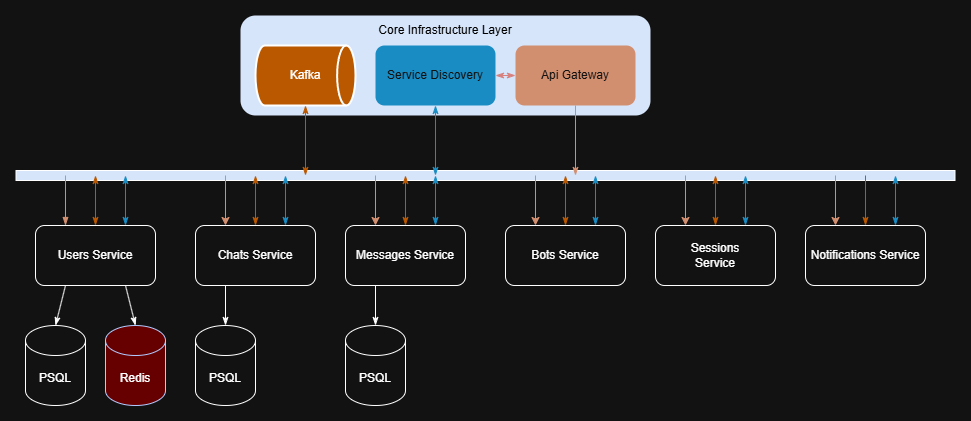
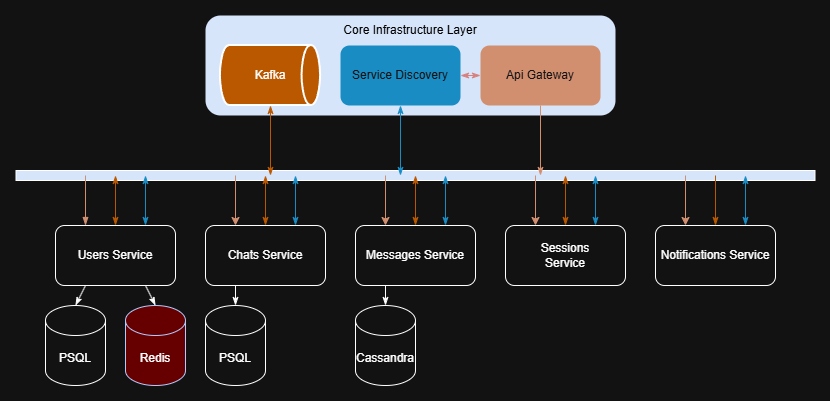
Updated cryptographic foundation, architecture and documentation
- Refined README to improve clarity on cryptographic primitives and their usage
- Introduced sealed sender architecture under symmetric encryption practices
- Updated architecture diagram

diff --git a/README.md b/README.md
@@ -12,12 +12,9 @@ The backend is built as a modular system (or microservices architecture), separa
 
 ### Modules & Services
 
-The backend is built as a distributed microservices architecture, communicating synchronously via API Gateway/Service Discovery and asynchronously via Kafka events.
-
 * **[Users Service](./users/README.md)** — Core service handling invite-only registration, passwordless Challenge-Response authentication, device fleet management, and Cross-Signing attestation.
 * **Chats Service** — Manages chat rooms, group metadata, and participant lists.
 * **Messages Service** — Handles the routing of E2EE payloads, offline message queues, and delivery receipts.
-* **Bots Service** — Integrates automated bots into the ecosystem, interacting directly with the Messages Service.
 * **Sessions Service** — Manages persistent WebSocket connections for real-time, instant message delivery to online devices.
 * **Notifications Service** — Responsible for dispatching push notifications (via Firebase Cloud Messaging) to wake up offline devices when new E2EE payloads arrive.
 
@@ -28,26 +25,26 @@ The backend is built as a distributed microservices architecture, communicating 
 ParanoiaX relies on modern, fast, and secure cryptographic primitives:
 
 * **Ed25519 (EdDSA):** Used for all digital signatures (Cross-Signing devices, Challenge-Response API authentication). It is exceptionally fast and immune to side-channel attacks.
-* **X25519 (ECDH):** Used for Elliptic-Curve Diffie-Hellman key agreement. This allows two devices to negotiate a shared secret over an insecure channel to encrypt messages.
-* **AES-256-GCM:** Used for symmetric encryption of bulk data (e.g., encrypting the local database Blob during state migration and encrypting actual message payloads).
-* **UUIDv4:** Used for generating collision-resistant, non-sequential identifiers for users and devices.
+* **X25519 (ECDH):** Used for Elliptic-Curve Diffie-Hellman key agreement. This allows devices to securely negotiate and exchange symmetric keys over an insecure channel via ECIES envelopes.
+* **AES-256-GCM:** Used for symmetric encryption of bulk data.
+* **HKDF & HMAC-SHA256:** Used for deterministic, stateless token generation (e.g., for anonymous message deletion) and safe key derivation, ensuring strict key domain separation.
 
 ---
 
 ## Cryptographic Key Hierarchy
 
-To guarantee Perfect Forward Secrecy and ensure that a single compromised device does not expose the user's entire account, the system enforces a strict hierarchy of keys across three levels:
+To provide robust Forward and Post-Compromise Security, and to ensure that a single compromised device does not expose the user's entire account, the system enforces a strict hierarchy of keys across three levels:
 
 ### 1. User Level (Root of Trust)
-This level identifies the *person*, not the hardware. 
-* **Master Identity Key (Ed25519):** Generated once on the very first device during registration. 
+This level identifies the *person*, not the hardware.
+* **Master Identity Key (Ed25519):** Generated once on the very first (primary) device during registration.
     * *Public Key:* Acts as the user's global "passport" for other contacts.
     * *Private Key:* Stored securely on the primary device. Used **only** to sign and authorize new secondary devices (Cross-Signing).
 
 ### 2. Device Level (Authentication & Routing)
 Every piece of hardware (phone, PC, web browser) generates its own independent keys that never leave the device's secure hardware enclave (Keystore/Keychain).
-* **Device Identity Key (Ed25519):** Used to sign HTTP requests (Challenge-Response) so the server knows which specific device is making the API call.
-* **Device Encryption Key (X25519):** Used as the public recipient key for E2EE messages. If Alice has two devices, Bob will encrypt his message twice—once for Alice's phone, and once for Alice's PC.
+* **Device Identity Key (Ed25519):** Used to sign HTTP requests (Challenge-Response) for API authentication, and to digitally sign encapsulated E2EE message payloads to prove author authenticity to other clients (Cryptographic Framing).
+* **Device Encryption Key (X25519):** Used as the public recipient key for ECIES-based key distribution. Allows devices to securely receive shared chat keys through the server's outbound key mailbox.
 
-### 3. Chat Level (Payload Encryption)
-* **Symmetric Session Keys (AES-256):** Derived from the X25519 key agreement between the sender's device and the recipient's device. These keys are used to quickly encrypt the actual text, audio, or media payloads of the chat. They are frequently rotated to maintain Forward Secrecy.
+### 3. Chat Level (Payload Encryption & Sealed Sender)
+* **Symmetric Chat Keys (AES-256-GCM):** A shared symmetric key generated by a chat initiator and securely distributed to all participant devices via ECIES envelopes. This key encrypts the entire message payload—including sender metadata, achieving a "Sealed Sender" architecture where the server cannot see who authored a specific message. To maintain strict security boundaries and limit exposure, these keys are aggressively rotated (e.g., every 100 messages, every 7 days, or immediately upon any participant changes).

diff --git a/users/README.md b/users/README.md
@@ -23,10 +23,11 @@ The primary client application executes a fully localized cryptographic initiali
 
 **Phase 2: Local Cryptographic Initialization**
 
-1. **Key Generation:** The new device locally generates **two independent ECC key pairs**:
-   - `Identity_Key` (Ed25519) used exclusively for digital signatures and authentication.
-   - `Encryption_Key` (X25519) used exclusively for End-to-End Encryption (E2EE) of chat messages.
-2. **Device Identification:** A unique `device_id` (UUIDv4) is generated to identify this specific hardware instance.
+1. **Key Generation:** The new device locally generates **ECC key pairs**:
+   - `Master_Identity_Key` (Ed25519): Used exclusively as the root of trust to cross-sign future devices.
+   - `Device_Identity_Key` (Ed25519): Used for API authentication (Challenge-Response) and digital signatures.
+   - `Device_Encryption_Key` (X25519): Used for ECIES-based key distribution of E2EE chat keys. *(Secondary devices generate only the latter two).*
+2. **Device Identification:** A unique, unpredictable `device_id` is generated via CSPRNG (UUIDv4 format) to securely identify this specific hardware instance and prevent ID enumeration.
 3. **Hardware Isolation:** The private keys are immediately stored in the OS hardware-backed secure enclave (Keystore on Android / Keychain on iOS/macOS) and **never leave the device** under any circumstances.
 
 **Phase 3: Profile Registration**
@@ -52,21 +53,21 @@ Since message history is stored on the server and private ECC keys cannot be cop
 More importantly, to protect against **Ghost Device Attacks** (where a compromised server injects a fake device to intercept messages), ParanoiaX implements **Cross-Signing**. 
 The server is never trusted to verify device ownership. Instead, the primary device cryptographically signs the new device's public keys.
 
-### 3.1. Cryptographic Key Hierarchy
+### 2.1. Cryptographic Key Hierarchy
 
 To maintain Perfect Forward Secrecy and ensure a compromised device does not expose the entire account's history, ParanoiaX strictly separates *trust* from *encryption*:
 
 * **Account Level (Master Identity):** During initial registration, the first device generates a single Master Identity Key Pair (Ed25519). The public key acts as the user's global cryptographic "passport." The Master Private Key is securely stored locally on the primary device and is used *exclusively* to sign and authorize secondary devices.
 * **Device Level (Independent Keys):** Every device (including the primary one) generates its own independent Identity Key Pair (for API authentication) and Encryption Key Pair (X25519, for E2EE messages). When a contact sends a message, their client individually encrypts it for each of the recipient's verified devices.
 
-### 3.2. The Migration Protocol
+### 2.2. The Migration Protocol
 
 1. **Key Generation:** The new device generates its own independent Ed25519 and X25519 key pairs.
 2. **Cross-Signing (Offline):** The primary device scans the new device's keys and signs them using its Master Private Key, generating a `device_signature`.
 3. **State Encryption:** The primary device encrypts the local database of symmetric AES chat keys using a randomly generated one-time `transfer_key`.
 4. **Server Upload:** The encrypted Blob is uploaded to the server. The server acts as a "dumb pipe" and cannot decrypt it.
 5. **Optical Transmission (Offline):** The primary device displays a QR code containing the `link_token`, the `device_signature`, and the `transfer_key`. The AES key never touches the network.
-6. **Atomic Registration (2-Phase Commit):** The new device fetches the Blob, decrypts it locally, and submits its keys + signature to the server. The server verifies the token, registers the device, and strictly then deletes the transit Blob.
+6. **Atomic Registration (2-Phase Commit):** The new device fetches the Blob, decrypts it locally, and submits its keys and signature to the server. The server verifies the token, registers the device, and strictly then deletes the transit Blob.
 
 ### Sequence Diagram
 ![NewDeviceLinkingProcess.png](docs/assets/NewDeviceLinkingProcess.png)